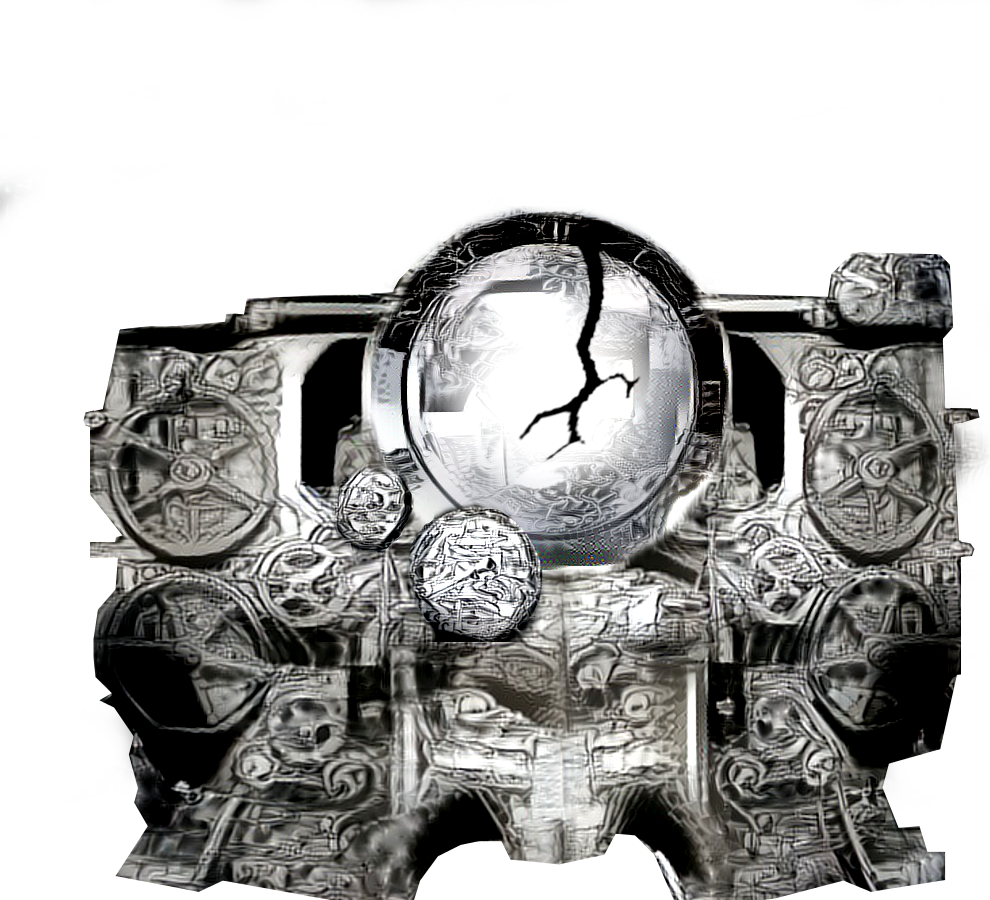
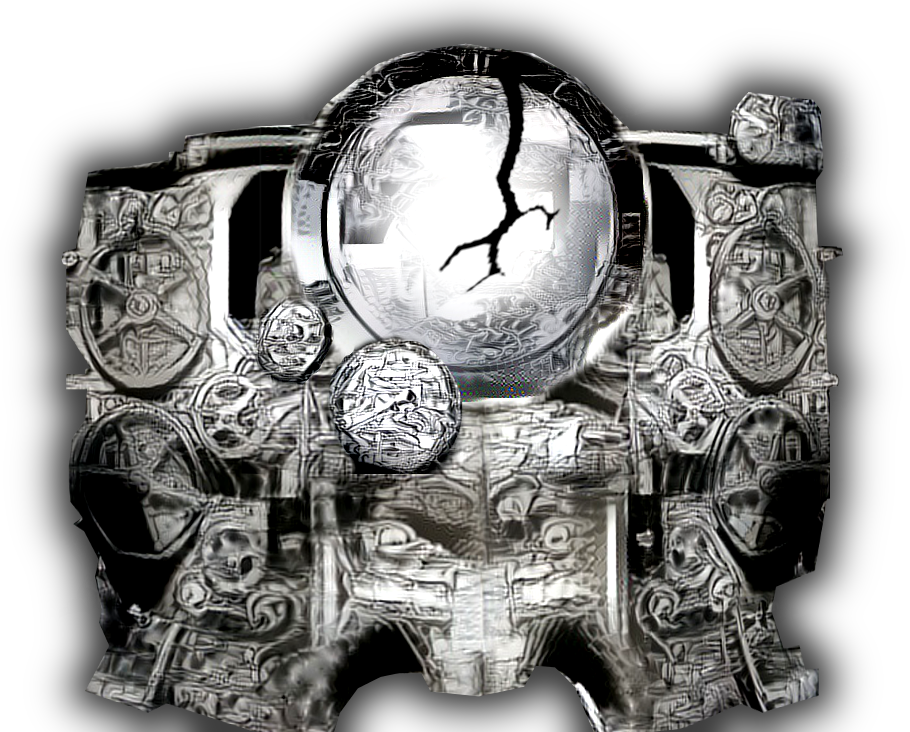
tweaking instrument console...

diff --git a/js/page2.js b/js/page2.js
@@ -18,7 +18,7 @@
                     $scope.components = [
                         { image: "img/page2-far.png", scroll_width: 2400 },
 //                        { image: "img/page2-mid.png", scroll_width: 2640 },
-                        { image: "img/instruments.png", scroll_width: 2450, left: -250, bottom: -50 },
+                        { image: "img/instruments.png", hlimage: "img/instruments-hl.png", scroll_width: 2450, left: -50, bottom: -50 },
                         { image: "img/jengine.png", scroll_width: 2760, left: 900, bottom: -50 },
                         { image: "img/page2-near.png", scroll_width: 2880 },
                         { image: "img/check-list.png", scroll_width: 2880, left: 1225, bottom: 350},
